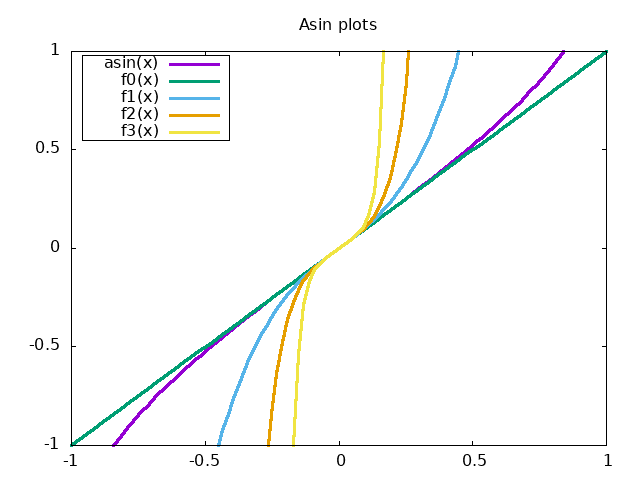
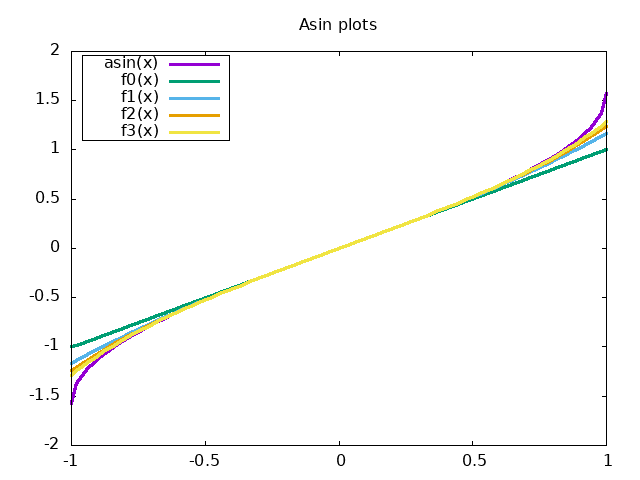
Added description in README

diff --git a/class_16/README.md b/class_16/README.md
@@ -1,0 +1,51 @@
+# asin(x) funkcijas aproksimācija izmantojot Teilora rindu
+
+Izmantojot Teilora rindu ir iespējams veikt dažādu sarežģītu funkciju _f_ aproksimāciju. Laboratorijas darba laikā tika izstrādāta C programma, kura, izmantojot Teilora rindu aproksimē `asin(x)` funkcijas vērtību padotajam mainīgajam `x`.
+
+![asin(x) funkcijas aproksimācijas attēlojums pirmajām 4 rindiņām izmantojot gnuplot](images/asin.png)
+
+Izmantojot `gnuplot` grafiku vizualizācijas rīku ir iespējams uzskatāmi parādīt Teilora rindas darbības principu. Dotajā attēlā ir redzams `asin(x)` funkcijas grafiks visā tā definīcijas apgabalā `[-1,1]`. Funkcijas `f0(x)` - `f3(x)` ir pirmo trīs rezultējošo Teilora rindas funkciju grafiki funkcijai `asin(x)`. Kā redzams, katra nākamā funkcija rindā rada grafiku, kas aiz vien vairāk pietuvinās funkcijai `asin(x)`. Saskaitot katras šīs funkcijas vērtību mainīgajam `x` ir iespējams iegūt vērtību, kas ir pietuvināta funkcijas `asin(x)` patiesajam rezultātam.
+
+## Programmas darbības apraksts un analīze
+
+Nokompilējot failu `main.c` izmantojot sekojošu komandu:
+```shell
+$ mkdir build && gcc main.c -o build/asin -lm
+```
+Un palaižot izpildāmo failu:
+```shell
+$ ./build/asin
+```
+Lietotājam tiks prasīts ievadīt skaitli `x` diapazonā no `[-1, 1]`. Pēc tam kad lietotājs ievadīja skaitli un nospieda `Enter`, tiek aprēķināta un izvadīta `asin(x)` vērtība izmantojot Linux operētājsistēmas `asin(x)` funkcijas realizāciju. Tālāk tiek veikts funkcijas vērtības aprēķins izmantojot paša izstrādātu `asin(x)` realizāciju (kodā sauktu par `myAsin`). Programmas darbības piemērs aprēķinot `asin(0.64)`:
+
+```
+$ ./build/asin
+Please input x in range [-1, 1]:
+0.64
+
+System calculated value of asin( 0.640000 ): 0.694498265626556032792393580166
+
+a499 = 5.977155044032951594808740168598e-199      S499 = 0.694498265626556005524708942156
+a500 = 2.440907761105425820287769977967e-199      S500 = 0.694498265626556005524708942156
+Library calculated value of asin( 0.640000 ): 0.694498265626556005524708942156
+
+Comparison:
+System :  0.694498265626556032792393580166
+Library:  0.694498265626556005524708942156
+Delta  :  0.000000000000000027267684638010
+
+               500
+               ===                  (2 . k + 1)
+               \        (2 . k)! . x
+sin(0.64) =    /     = ------------------------
+               ===      k       2
+              k = 0    4  . (k!)  . (2 . k + 1)
+
+                                 2    2
+                      (2 . k - 1)  . x
+recurrence relation: -------------------
+                     2 . k . (2 . k + 1)
+```
+Sadaļā `Comparison` ir iespējams apskatīt abu funkciju rezultātu, cipars pret ciparu veidā. `Delta` vērtība ir `System` un `Library` vērtību starpība, lai varētu noteikt `myAsin` funkcijas rezultāta nobīdi no patiesā rezultāta.
+
+Programma papildus izvada kopējo Teilora rindas matemātisko funkciju priekš `asin(x)`, taču faktiski šī funkcija netiek pielietota programmā, jo katra šīs funkcijas iterācija izmantotu pārlieku lielu atmiņas daudzumu matemātisku sakarību dēļ. Lai novērstu šo nepilnību tika noteikts rekurences reizinātājs, kas ir redzams izvades beigās. Rekurences reizinātājs ļauj efektīvāk izmantot Teilora rindas, izmantojot stipri mazāku resursu apjomu. Tas tiek panākts katrā vērtības aprēķina iterācijas reizē izmantojot iepriekšējās iterācijas rezultātu esošās iterācijas aprēķina veikšanai.
